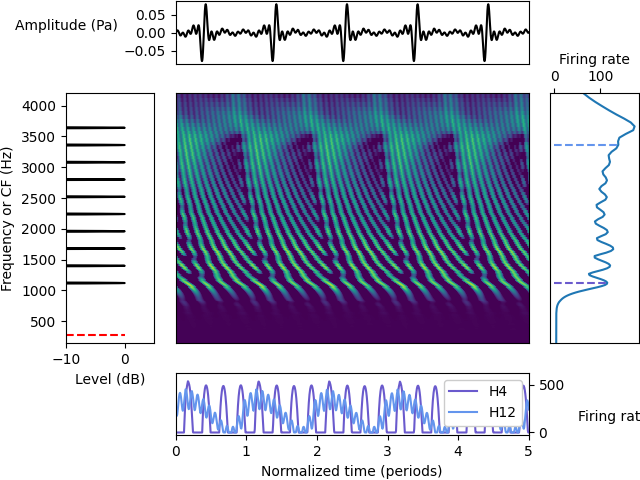
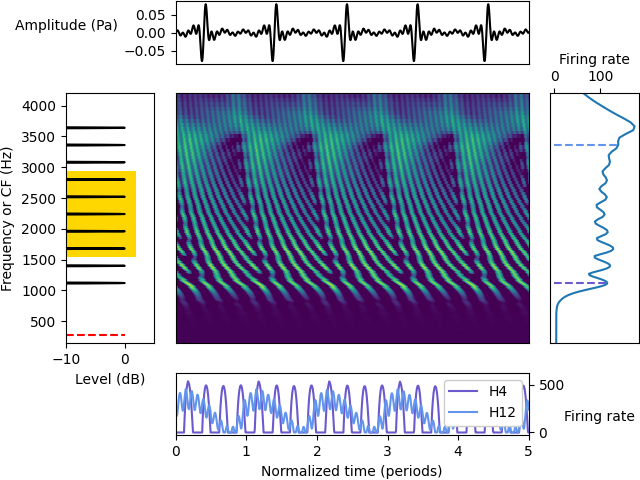
Added highlight box to figure 0

Changed region(s): [[0.0938, 0.3438, 0.2188, 0.5625], [0.875, 0.8438, 1.0, 0.9062]]

diff --git a/figure0/figure0.py b/figure0/figure0.py
@@ -6,6 +6,7 @@ import apcmodels.simulation as si
 import apcmodels.anf as anf
 import numpy as np
 import matplotlib.pyplot as plt
+import matplotlib.patches as patches
 import os, sys
 sys.path.append(os.getcwd())
 
@@ -61,18 +62,20 @@ def sim_and_plot_neurogram(f0, xlow=20, xhigh=25):
     axs[2, 1].set_ylabel('Firing rate', rotation='horizontal')
     axs[2, 1].yaxis.tick_right()
     axs[2, 1].yaxis.set_label_position('right')
-    axs[2, 1].yaxis.set_label_coords(1.24, 0.40)
-    # Plot spectrum
+    axs[2, 1].yaxis.set_label_coords(1.20, 0.40)
+    # Plot spectrum (left)
     X = 20*np.log10(np.abs(np.fft.fft(stim, n=stim.shape[0]*10)))
     X = X - np.max(X)
     faxis = np.linspace(0, params[0]['fs'], X.shape[0])
+    rect = patches.Rectangle((-10, f0*5.5), 12, f0*5, edgecolor='none', facecolor='gold')
+    axs[1, 0].add_patch(rect)
     axs[1, 0].plot(X, faxis, color='black')
     axs[1, 0].plot([-10, 0], [f0, f0], 'r--')
     axs[1, 0].set_ylim(params[0]['cf_low'], params[0]['cf_high'])
     axs[1, 0].set_xlim((-10, 5))
     axs[1, 0].set_ylabel('Frequency or CF (Hz)')
     axs[1, 0].set_xlabel('Level (dB)')
-    # Plot excitation pattern
+    # Plot excitation pattern (right)
     axs[1, 2].plot(np.mean(resp[0], axis=1), f)
     idx = np.argmin(np.abs(f - f0*4))
     axs[1, 2].plot([0, np.mean(resp[0], axis=1)[idx]], [f0*4, f0*4], color='slateblue', linestyle='dashed')
